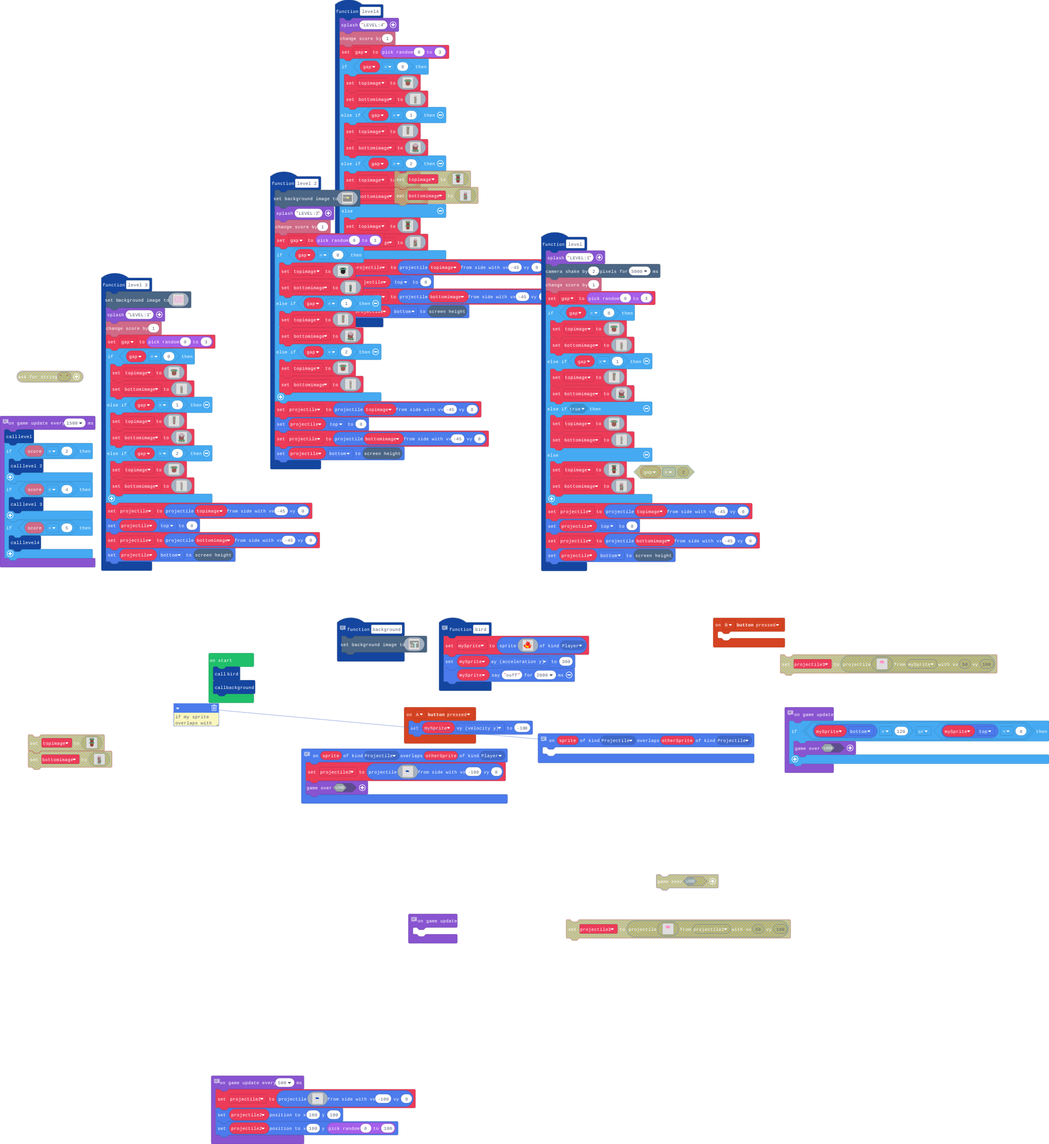
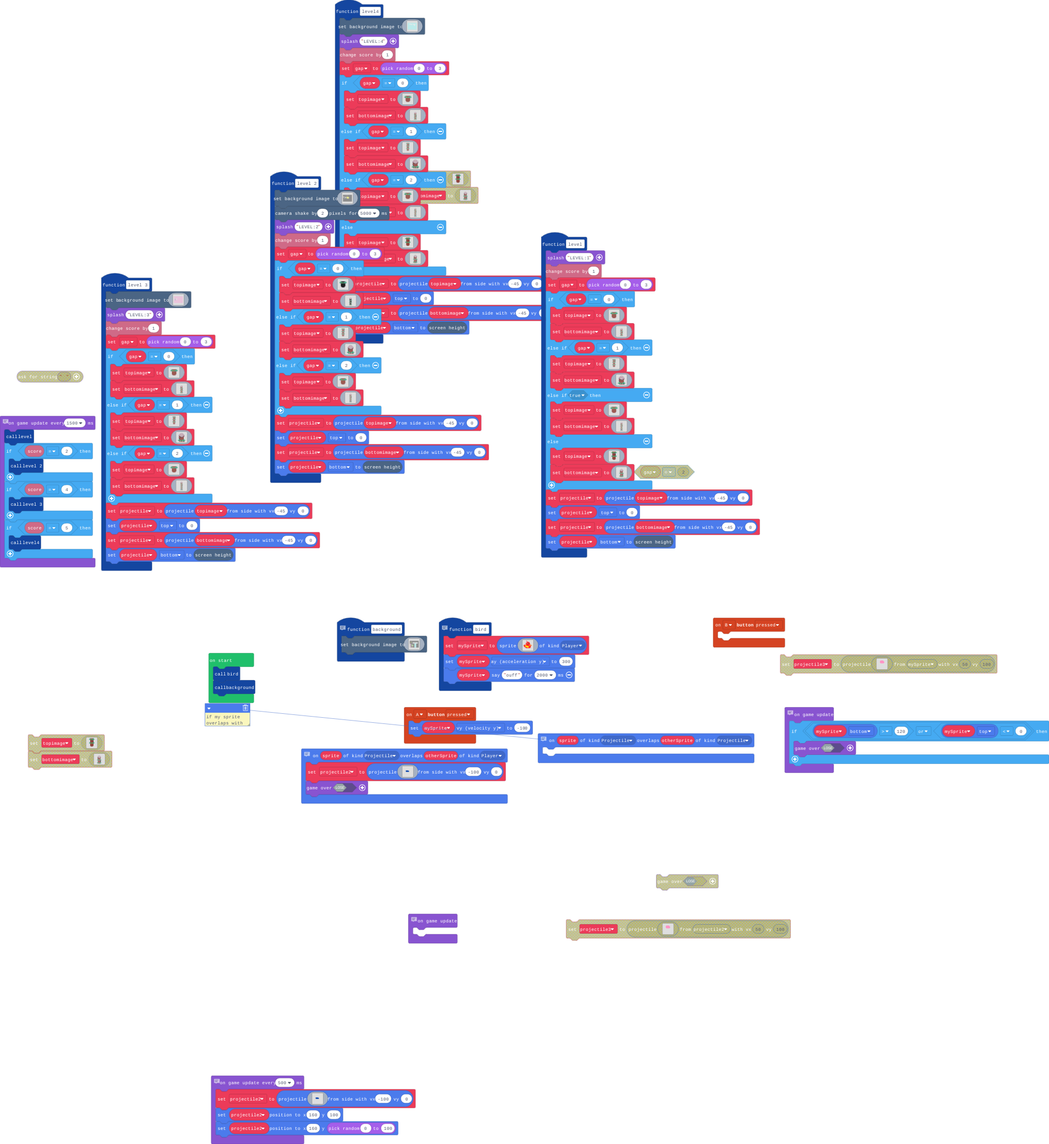
Update main.blocks, main.ts

Changed region(s): [[0.2493, 0.0, 0.7168, 0.4968], [0.1558, 0.5899, 0.2493, 0.652]]

diff --git a/main.ts b/main.ts
@@ -20,6 +20,128 @@ namespace myTiles {
 `
 }
 function level4 () {
+    scene.setBackgroundImage(img`
+9 9 9 9 9 9 9 9 9 9 9 9 9 9 9 9 9 9 9 9 9 9 9 9 9 9 9 9 9 9 9 9 9 9 9 9 9 9 9 9 9 9 9 9 9 9 9 9 9 9 9 9 9 9 9 9 9 9 9 9 9 9 9 9 9 9 9 9 9 9 9 9 9 9 9 9 9 9 9 9 9 9 9 9 9 9 9 9 9 9 9 9 9 9 9 9 9 9 9 9 9 9 9 9 9 9 9 9 9 9 9 9 9 9 9 9 9 9 9 9 9 9 9 9 9 9 9 9 9 9 9 9 9 9 9 9 9 9 9 9 9 9 9 9 9 9 9 9 9 9 9 9 9 9 9 9 9 9 9 9 
+9 9 9 9 9 9 9 9 9 9 9 9 9 9 9 9 9 9 9 9 9 9 9 9 9 9 9 9 9 9 9 9 9 9 9 9 9 9 9 9 9 9 9 9 9 9 9 9 9 9 9 9 9 9 9 9 9 9 9 9 9 9 9 9 9 9 9 9 9 9 9 9 9 9 9 9 9 9 9 9 9 9 9 9 9 9 9 9 9 9 9 9 9 9 9 9 9 9 9 9 9 9 9 9 9 9 9 9 9 9 9 9 9 9 9 9 9 9 9 9 9 9 9 9 9 9 9 9 9 9 9 9 9 9 9 9 9 9 9 9 9 9 9 9 9 9 9 9 9 9 9 9 9 9 9 9 9 9 9 9 
+9 9 9 9 9 9 9 9 9 9 9 9 9 9 9 9 9 9 9 9 9 9 9 9 9 9 9 9 9 9 9 9 9 9 9 9 9 9 9 9 9 9 9 9 9 9 9 9 9 9 9 9 9 9 9 9 9 9 9 9 9 9 9 9 9 9 9 9 9 9 9 9 9 9 9 9 9 9 9 9 9 9 9 9 9 9 9 9 9 9 9 9 9 9 9 9 9 9 9 9 9 9 9 9 9 9 9 9 9 9 9 9 9 9 9 9 9 9 9 9 9 9 9 9 9 9 9 9 9 9 9 9 9 9 9 9 9 9 9 9 9 9 9 9 9 9 9 9 9 9 9 9 9 9 9 9 9 9 9 9 
+9 9 9 9 9 9 9 9 9 9 9 9 9 9 9 9 9 9 9 9 9 9 9 9 9 9 9 9 9 9 9 9 9 9 9 9 9 9 9 9 9 9 9 9 9 9 9 9 9 9 9 9 9 9 9 9 9 9 9 9 9 9 9 9 9 9 9 9 9 9 9 9 9 9 9 9 9 9 9 9 9 9 9 9 9 9 9 9 9 9 9 9 9 9 9 9 9 9 9 9 9 9 9 9 9 9 9 9 9 9 9 9 9 9 9 9 9 9 9 9 9 9 9 9 9 9 9 9 9 9 9 9 9 9 9 9 9 9 9 9 9 9 9 9 9 9 9 9 9 9 9 9 9 9 9 9 9 9 9 9 
+9 9 9 9 9 9 9 9 9 9 9 9 9 9 9 9 9 9 9 9 9 9 9 9 9 9 9 9 9 9 9 9 9 9 9 9 9 9 9 9 9 9 9 9 9 9 9 9 9 9 9 9 9 9 9 9 9 9 9 9 9 9 9 9 9 9 9 9 9 9 9 9 9 9 9 9 9 9 9 9 9 9 9 9 9 9 9 9 9 9 9 9 9 9 9 9 9 9 9 9 9 9 9 9 9 9 9 9 9 9 9 9 9 9 9 9 9 9 9 9 9 9 9 9 9 9 9 9 9 9 9 9 9 9 9 9 9 9 9 9 9 9 9 9 9 9 9 9 9 9 9 9 9 9 9 9 9 9 9 9 
+9 9 9 9 9 9 9 9 9 9 9 9 9 9 9 9 9 9 9 9 9 9 9 9 9 9 9 9 9 9 9 9 9 9 9 9 9 9 9 9 9 9 9 9 9 9 9 9 9 9 9 9 9 9 9 9 9 9 9 9 9 9 9 9 9 9 9 9 9 9 9 9 9 9 9 9 9 9 9 9 9 9 9 9 9 9 9 9 9 9 9 9 9 9 9 9 9 9 9 9 9 9 9 9 9 9 9 9 9 9 9 9 9 9 9 9 9 9 9 9 9 9 9 9 9 9 9 9 9 9 9 9 9 9 9 9 9 9 9 9 9 9 9 9 9 9 9 9 9 9 9 9 9 9 9 9 9 9 9 9 
+9 9 9 9 9 9 9 9 9 9 9 9 9 9 9 9 9 9 9 9 9 9 9 9 9 9 9 9 9 9 9 9 9 9 9 9 9 9 9 9 9 9 9 9 9 9 9 9 9 9 9 9 9 9 9 9 9 9 9 9 9 9 9 9 9 9 9 9 9 9 9 9 9 9 9 9 9 9 9 9 9 9 9 9 9 9 9 9 9 9 9 9 9 9 9 9 9 9 9 9 9 9 9 9 9 9 9 9 9 9 9 9 9 9 9 9 9 9 9 9 9 9 9 9 9 9 9 9 9 9 9 9 9 9 9 9 9 9 9 9 9 9 9 9 9 9 9 9 9 9 9 9 9 9 9 9 9 9 9 9 
+9 9 9 9 9 9 9 9 9 9 9 9 9 9 9 9 9 9 9 9 9 9 9 9 9 9 9 9 9 9 9 9 9 9 9 9 9 9 9 9 9 9 9 9 9 9 9 9 9 9 9 9 9 9 9 9 9 9 9 9 9 9 9 9 9 9 9 9 9 9 9 9 9 9 9 9 9 9 9 9 9 9 9 9 9 9 9 9 9 9 9 9 9 9 9 9 9 9 9 9 9 9 9 9 9 9 9 9 9 9 9 9 9 9 9 9 9 9 9 9 9 9 9 9 9 9 9 9 9 9 9 9 9 9 9 9 9 9 9 9 9 9 9 9 9 9 9 9 9 9 9 9 9 9 9 9 9 9 9 9 
+9 9 9 9 9 9 9 9 9 9 9 9 9 9 9 9 9 9 9 9 9 9 9 9 9 9 9 9 9 9 9 9 9 9 9 9 9 9 9 9 9 9 9 9 9 9 9 9 9 9 9 9 9 9 9 9 9 9 9 9 9 9 9 9 9 9 9 9 9 9 9 9 9 9 9 9 9 9 9 9 9 9 9 9 9 9 9 9 9 9 9 9 9 9 9 9 9 9 9 9 9 9 9 9 9 9 9 9 9 9 9 9 9 9 9 9 9 9 9 9 9 9 9 9 9 9 9 9 9 9 9 9 9 9 9 9 9 9 9 9 9 9 9 9 9 9 9 9 9 9 9 9 9 9 9 9 9 9 9 9 
+9 9 9 9 9 9 9 9 9 9 9 9 9 9 9 9 9 9 9 9 9 9 9 9 9 9 9 9 9 9 9 9 9 9 9 9 9 9 9 9 9 9 9 9 9 9 9 9 9 9 9 9 9 9 9 9 9 9 9 9 9 9 9 9 9 9 9 9 9 9 9 9 9 9 9 9 9 9 9 9 9 9 9 9 9 9 9 9 9 9 9 9 9 9 9 9 9 9 9 9 9 9 9 9 9 9 9 9 9 9 9 9 9 9 9 9 9 9 9 9 9 9 9 9 9 9 9 9 9 9 9 9 9 9 9 9 9 9 9 9 9 9 9 9 9 9 9 9 9 9 9 9 9 9 9 9 9 9 9 9 
+9 9 9 9 9 9 9 9 9 9 9 9 9 9 9 9 9 9 9 9 9 9 9 9 9 9 9 9 9 9 9 9 9 9 9 9 9 9 9 9 9 9 9 9 9 9 9 9 9 9 9 9 9 9 9 9 9 9 9 9 9 9 9 9 9 9 9 9 9 9 9 9 9 9 9 9 9 9 9 9 9 9 9 9 9 9 9 9 9 9 9 9 9 9 9 9 9 9 9 9 9 9 9 9 9 9 9 9 9 9 9 9 9 9 9 9 9 9 9 9 9 9 9 9 9 9 9 9 9 9 9 9 9 9 9 9 9 9 9 9 9 9 9 9 9 9 9 9 9 9 9 9 9 9 9 9 9 9 9 9 
+9 9 9 9 9 9 9 9 9 9 9 9 9 9 9 9 9 9 9 9 9 9 9 9 9 9 9 9 9 9 9 9 9 9 9 9 9 9 9 9 9 9 9 9 9 9 9 9 9 9 9 9 9 9 9 9 9 9 9 9 9 9 9 9 9 9 9 9 9 9 9 9 9 9 9 9 9 9 9 9 9 9 9 9 9 9 9 9 9 9 9 9 9 9 9 9 9 9 9 9 9 9 9 9 9 9 9 9 9 9 9 9 9 9 9 9 9 9 9 9 9 9 9 9 9 9 9 9 9 9 9 9 9 9 9 9 9 9 9 9 9 9 9 9 9 9 9 9 9 9 9 9 9 9 9 9 9 9 9 9 
+9 9 9 9 9 9 9 9 9 9 9 9 9 9 9 9 9 9 9 9 9 9 9 9 9 9 9 9 9 9 9 9 9 9 9 9 9 9 9 9 9 9 9 9 9 9 9 9 9 9 9 9 9 9 9 9 9 9 9 9 9 9 9 9 9 9 9 9 9 9 9 9 9 9 9 9 9 9 9 9 9 9 9 9 9 9 9 9 9 9 9 9 9 9 9 9 9 9 9 9 9 9 9 9 9 9 9 9 9 9 9 9 9 9 9 9 9 9 9 9 9 9 9 9 9 9 9 9 9 9 9 9 9 9 9 9 9 9 9 9 9 9 9 9 9 9 9 9 9 9 9 9 9 9 9 9 9 9 9 9 
+9 9 9 9 9 9 9 9 9 9 9 9 9 9 9 9 9 9 9 9 9 9 9 9 9 9 9 9 9 9 9 9 9 9 9 9 9 9 9 9 9 9 9 9 9 9 9 9 9 9 9 9 9 9 9 9 9 9 9 9 9 9 9 9 9 9 9 9 9 9 9 9 9 9 9 9 9 9 9 9 9 9 9 9 9 9 9 9 9 9 9 9 9 9 9 9 9 9 9 9 9 9 9 9 9 9 9 9 9 9 9 9 9 9 9 9 9 9 9 9 9 9 9 9 9 9 9 9 9 9 9 9 9 9 9 9 9 9 9 9 9 9 9 9 9 9 9 9 9 9 9 9 9 9 9 9 9 9 9 9 
+9 9 9 9 9 9 9 9 9 9 9 9 9 9 9 9 9 9 9 9 9 9 9 9 9 9 9 9 9 9 9 9 9 9 9 9 9 9 9 9 9 9 9 9 9 9 9 9 9 9 9 9 9 9 9 9 9 9 9 9 9 9 9 9 9 9 9 9 9 9 9 9 9 9 9 9 9 9 9 9 9 9 9 9 9 9 9 9 9 9 9 9 9 9 9 9 9 9 9 9 9 9 9 9 9 9 9 9 9 9 9 9 9 9 9 9 9 9 9 9 9 9 9 9 9 9 9 9 9 9 9 9 9 9 9 9 9 9 9 9 9 9 9 9 9 9 9 9 9 9 9 9 9 9 9 9 9 9 9 9 
+9 9 9 9 9 9 9 9 9 9 9 9 9 9 9 9 9 9 9 9 9 9 9 9 9 9 9 9 9 9 9 9 9 9 9 9 9 9 9 9 9 9 9 9 9 9 9 9 9 9 9 9 9 9 9 9 9 9 9 9 9 9 9 9 9 9 9 9 9 9 9 9 9 9 9 9 9 9 9 9 9 9 9 9 9 9 9 9 9 9 9 9 9 9 9 9 9 9 9 9 9 9 9 9 9 9 9 9 9 9 9 9 9 9 9 9 9 9 9 9 9 9 9 9 9 9 9 9 9 9 9 9 9 9 9 9 9 9 9 9 9 9 9 9 9 9 9 9 9 9 9 9 9 9 9 9 9 9 9 9 
+9 9 9 9 9 9 9 9 9 9 9 9 9 9 9 9 9 9 9 9 9 9 9 9 9 9 9 9 9 9 9 9 9 9 9 9 9 9 9 9 9 9 9 9 9 9 9 9 9 9 9 9 9 9 9 9 9 9 9 9 9 9 9 9 9 9 9 9 9 9 9 9 9 9 9 9 9 9 9 9 9 9 9 9 9 9 9 9 9 9 9 9 9 9 9 9 9 9 9 9 9 9 9 9 9 9 9 9 9 9 9 9 9 9 9 9 9 9 9 9 9 9 9 9 9 9 9 9 9 9 9 9 9 9 9 9 9 9 9 9 9 9 9 9 9 9 9 9 9 9 9 9 9 9 9 9 9 9 9 9 
+9 9 9 9 9 9 9 9 9 9 9 9 9 9 9 9 9 9 9 9 9 9 9 9 9 9 9 9 9 9 9 9 9 9 9 9 9 9 9 9 1 1 1 1 1 9 9 9 9 9 9 9 9 9 9 9 9 9 9 9 9 9 9 9 9 9 9 9 9 9 9 9 9 9 9 9 9 9 9 9 9 9 9 9 9 9 9 9 9 9 9 9 9 9 9 9 9 9 9 9 9 9 9 9 9 9 9 9 9 9 9 9 9 9 9 9 9 9 9 9 9 9 9 9 9 9 9 9 9 9 9 9 9 9 9 9 9 9 9 9 9 9 9 9 9 9 9 9 9 9 9 9 9 9 9 9 9 9 9 9 
+9 9 9 9 9 9 9 9 9 9 9 9 9 9 9 9 9 9 9 9 9 9 9 9 9 9 9 9 9 9 9 9 9 1 1 1 1 1 1 1 1 1 1 1 1 1 1 9 9 9 9 9 9 9 9 9 9 9 9 9 9 9 9 9 9 9 9 9 9 9 9 9 9 9 9 9 9 9 9 9 9 9 9 9 9 9 9 9 9 9 9 9 9 9 9 9 9 9 9 9 9 9 9 9 9 9 9 9 9 9 9 9 9 9 9 9 9 9 9 9 9 9 9 9 9 9 9 9 9 9 9 9 9 9 9 9 9 9 9 9 9 9 9 9 9 9 9 9 9 9 9 9 9 9 9 9 9 9 9 9 
+9 9 9 9 9 9 9 9 9 9 9 9 9 9 9 9 9 9 9 9 9 9 9 9 9 9 9 9 1 1 1 1 1 1 1 1 1 1 1 1 1 1 1 1 1 1 1 9 9 9 9 9 9 9 9 9 9 9 9 9 9 9 9 9 9 9 9 9 9 9 9 9 9 9 9 9 9 9 9 9 9 9 9 9 9 9 9 9 9 9 9 9 9 9 9 9 9 9 9 9 9 9 9 9 9 9 9 9 9 9 9 9 9 9 9 9 9 9 9 9 9 9 9 9 9 9 9 9 9 9 9 9 9 9 9 9 9 9 9 9 9 9 9 9 9 9 9 9 9 9 9 9 9 9 9 9 9 9 9 9 
+9 9 9 9 9 9 9 9 9 9 9 9 9 9 9 9 9 9 9 9 9 9 9 9 9 9 1 1 1 1 1 1 1 1 1 1 1 1 1 1 1 1 1 1 1 1 1 9 9 9 9 9 9 9 9 9 9 9 9 9 9 9 9 9 9 9 9 9 9 9 9 9 9 9 9 9 9 9 9 9 9 9 9 9 9 9 9 9 9 9 9 9 9 9 9 9 9 9 9 9 9 9 9 9 9 9 9 9 9 9 9 9 9 9 9 9 9 9 9 9 9 9 9 9 9 9 9 9 9 9 9 9 9 9 9 9 9 9 9 9 9 9 9 9 9 9 9 9 9 9 9 9 9 9 9 9 9 9 9 9 
+9 9 9 9 9 9 9 9 9 9 9 9 9 9 9 9 9 9 9 9 9 9 9 9 9 1 1 1 1 1 1 1 1 1 1 1 1 1 1 1 1 1 1 1 1 1 1 1 1 1 1 1 1 1 1 1 9 9 9 9 9 9 9 9 9 9 9 9 9 9 9 9 1 1 1 1 9 9 9 9 9 9 9 9 9 9 9 9 9 9 9 9 9 9 9 9 9 9 9 9 9 9 9 9 9 9 9 9 9 9 9 9 9 9 9 9 9 9 9 9 9 9 9 9 9 9 9 9 9 9 9 9 9 9 9 9 9 9 9 9 9 9 9 9 9 9 9 9 9 9 9 9 9 9 9 9 9 9 9 9 
+9 9 9 9 9 9 9 9 9 9 9 9 9 9 9 9 9 9 9 9 9 9 9 9 9 1 1 1 1 1 1 1 1 1 1 1 1 1 1 1 1 1 1 1 1 1 1 1 1 1 1 1 1 1 1 1 1 1 9 9 9 9 1 1 1 1 9 9 9 9 9 9 9 9 9 9 1 1 1 1 1 9 9 9 9 9 1 1 1 1 1 1 1 1 1 1 1 1 1 9 9 9 9 9 9 9 9 9 9 9 9 9 9 9 9 9 9 9 9 9 9 9 9 9 9 9 9 9 9 9 9 9 9 9 9 9 9 9 9 9 9 9 9 9 9 9 9 9 9 9 9 9 9 9 9 9 9 9 9 9 
+9 9 9 9 9 9 9 9 9 9 9 9 9 9 9 9 9 9 9 9 9 9 9 9 1 1 1 1 1 1 1 1 1 1 1 1 1 1 1 1 1 1 1 1 1 1 1 1 1 1 1 1 1 1 1 1 1 1 9 9 1 1 1 1 1 1 1 1 9 9 9 9 9 9 9 9 9 9 9 9 1 1 1 1 1 1 1 1 1 1 1 1 1 1 1 1 1 1 1 1 1 1 1 1 1 1 1 1 1 1 1 1 1 1 1 1 1 1 1 1 1 9 9 9 9 9 9 9 9 9 9 9 9 9 9 9 9 9 9 9 9 9 9 9 9 9 9 9 9 9 9 9 9 9 9 9 9 9 9 9 
+9 9 9 9 9 9 9 9 9 9 9 9 9 9 9 9 9 9 9 9 9 9 9 9 9 9 1 1 1 1 1 1 1 1 1 1 1 1 1 1 1 1 1 1 1 1 1 1 1 1 1 1 1 1 1 1 1 1 1 1 1 1 1 1 1 1 1 1 1 1 9 9 9 9 9 9 9 9 9 9 9 9 9 9 9 1 1 1 1 1 1 1 1 1 1 1 1 1 1 1 1 1 1 1 1 1 1 1 1 1 1 1 1 1 1 1 1 1 1 1 1 1 1 1 1 1 1 1 1 1 1 1 1 1 1 1 9 9 9 9 9 9 9 9 9 9 9 9 9 9 9 9 9 9 9 9 9 9 9 9 
+9 9 9 9 9 9 9 9 9 9 9 9 9 9 9 9 9 9 9 9 9 9 9 9 9 9 9 9 9 1 1 1 1 1 1 1 1 1 1 1 1 1 1 1 1 1 1 1 1 1 1 1 1 1 1 1 1 1 1 1 1 1 1 1 1 1 1 1 1 1 1 1 9 9 9 1 1 1 1 9 9 9 9 9 9 9 9 9 9 1 1 1 1 1 1 1 1 1 1 1 1 1 1 1 1 1 1 1 1 1 1 1 1 1 1 1 1 1 1 1 1 1 1 1 1 1 1 1 1 1 1 1 1 1 1 1 1 1 1 9 9 9 9 9 9 9 9 9 9 9 9 9 9 9 9 9 9 9 9 9 
+9 9 9 9 9 9 9 9 9 9 9 9 9 9 9 9 9 9 9 9 9 9 9 9 9 9 9 9 9 9 9 9 1 1 1 1 1 1 1 1 1 1 1 1 1 1 1 1 1 1 1 1 1 1 1 1 1 1 1 1 1 1 1 1 1 1 1 1 1 1 1 1 1 1 1 1 1 1 1 9 9 9 9 9 9 9 9 9 9 9 1 1 1 1 1 1 1 1 1 1 1 1 1 1 1 1 1 1 1 1 1 1 1 1 1 1 1 1 1 1 1 1 1 1 1 1 1 1 1 1 1 1 1 1 1 1 1 1 1 1 9 9 9 9 9 9 9 9 9 9 9 9 9 9 9 9 9 9 9 9 
+9 9 9 9 9 9 9 9 9 9 9 9 9 9 9 9 9 9 9 9 9 9 9 9 9 9 9 9 9 9 9 9 9 9 9 1 1 1 1 1 1 1 1 1 1 1 1 1 1 1 1 1 1 1 1 1 1 1 1 1 1 1 1 1 1 1 1 1 1 1 1 1 1 1 1 1 1 1 1 1 9 9 9 9 9 9 9 9 9 9 9 1 1 1 1 1 1 1 1 1 1 1 1 1 1 1 1 1 1 1 1 1 1 1 1 1 1 1 1 1 1 1 1 1 1 1 1 1 1 1 1 1 1 1 1 1 1 1 1 1 9 9 9 9 9 9 9 9 9 9 9 9 9 9 9 9 9 9 9 9 
+9 9 9 9 9 9 9 9 9 9 9 9 9 9 9 9 9 9 9 9 9 9 9 9 9 9 9 9 9 9 9 9 9 9 9 9 9 9 9 1 1 1 1 1 1 1 1 1 1 1 1 1 1 1 1 1 1 1 1 1 1 1 1 1 1 1 1 1 1 1 1 1 1 1 1 1 1 1 1 1 1 9 1 1 9 9 9 9 9 9 9 9 9 1 1 1 1 1 1 1 1 1 1 1 1 1 1 1 1 1 1 1 1 1 1 1 1 1 1 1 1 1 1 1 1 1 1 1 1 1 1 1 1 1 1 1 1 1 1 1 9 9 9 9 9 9 9 9 9 9 9 9 9 9 9 9 9 9 9 9 
+9 9 9 9 9 9 9 9 9 9 9 9 9 9 9 9 9 9 9 9 9 9 9 9 9 9 9 9 9 9 9 9 9 9 9 9 9 9 9 9 9 9 1 1 1 9 1 1 1 1 1 1 1 1 1 1 1 1 1 1 1 1 1 1 1 1 1 1 1 1 1 1 1 1 1 1 1 1 1 1 1 1 9 9 9 9 9 9 9 9 9 9 9 9 1 1 1 1 1 1 1 1 1 1 1 1 1 1 1 1 1 1 1 1 1 1 1 1 1 1 1 1 1 1 1 1 1 1 1 1 1 1 1 1 1 1 1 1 1 1 9 9 9 9 9 9 9 9 9 9 9 9 9 9 9 9 9 9 9 9 
+9 9 9 9 9 9 9 9 9 9 9 9 9 9 9 9 9 9 9 9 9 9 9 9 9 9 9 9 9 9 9 9 9 9 9 9 9 9 9 1 9 9 9 9 9 1 1 9 9 9 1 1 1 1 1 1 1 1 1 1 1 1 1 1 1 1 1 1 1 1 1 1 1 1 1 1 1 1 1 1 1 1 9 9 9 9 9 9 9 9 9 9 9 9 9 1 1 1 1 1 1 1 1 1 1 1 1 1 1 1 1 1 1 1 1 1 1 1 1 1 1 1 1 1 1 1 1 1 1 1 1 1 1 1 1 1 1 1 1 1 9 9 9 9 9 9 9 9 9 9 9 9 9 9 9 9 9 9 9 9 
+9 9 9 9 9 9 9 9 9 9 9 9 9 9 9 9 9 9 9 9 9 9 9 9 9 9 9 9 9 9 9 9 9 9 9 9 9 9 9 9 9 9 9 9 9 9 9 9 9 9 9 9 9 1 1 1 1 1 1 1 1 1 1 1 1 1 1 1 1 1 1 1 1 1 1 1 1 1 1 1 1 9 9 9 9 9 9 9 9 9 9 9 9 9 9 9 9 1 1 1 1 1 1 1 1 1 1 1 1 1 1 1 1 1 1 1 1 1 1 1 1 1 1 1 1 1 1 1 1 1 1 1 1 1 1 1 1 1 1 1 9 9 9 9 9 9 9 9 9 9 9 9 9 9 9 9 9 9 9 9 
+9 9 9 9 9 9 9 9 9 9 9 9 9 9 9 9 9 1 9 9 9 9 9 9 9 9 9 9 9 9 9 9 9 9 9 9 9 9 9 9 9 9 9 9 9 9 9 9 9 9 9 9 9 9 9 9 9 1 1 1 1 1 1 1 1 1 1 1 1 1 1 1 1 1 1 1 1 1 1 1 9 9 9 9 9 9 9 9 9 9 9 9 9 9 9 9 9 9 1 1 1 1 1 1 1 1 1 1 1 1 1 1 1 1 1 1 1 1 1 1 1 1 1 1 1 1 1 1 1 1 1 1 1 1 1 1 1 1 1 1 9 9 9 9 9 9 9 9 9 9 9 9 9 9 9 9 9 9 9 9 
+9 9 9 9 9 9 9 9 9 9 9 9 9 9 9 9 9 1 9 1 1 1 1 9 9 9 9 9 9 9 9 9 9 9 9 9 9 9 9 9 9 9 9 9 9 9 9 9 9 9 9 9 9 9 9 9 9 9 9 9 9 1 1 1 1 1 1 1 1 1 1 1 1 1 1 1 1 1 1 1 9 9 9 9 9 9 9 9 9 9 9 9 9 9 9 9 9 9 9 9 1 1 1 1 1 1 1 1 1 1 1 1 1 1 1 1 1 1 1 1 1 1 1 1 1 1 9 9 9 9 9 1 1 1 1 1 1 1 1 1 9 9 9 9 9 9 9 9 9 9 9 9 9 9 9 9 9 9 9 9 
+9 9 9 9 9 9 9 9 9 9 9 9 9 9 9 9 9 9 1 1 1 1 1 1 9 9 9 9 9 9 9 9 9 9 9 9 9 9 9 9 9 9 9 9 9 9 9 9 9 9 9 9 9 9 9 9 9 9 9 9 9 9 9 9 9 1 1 1 1 1 1 1 1 1 1 1 1 1 1 9 9 9 9 9 9 9 9 9 9 9 9 9 9 9 9 9 9 9 9 9 9 1 1 1 1 1 1 1 1 1 1 1 1 1 1 1 1 1 1 1 1 1 1 1 1 1 9 9 9 9 9 9 9 9 1 1 1 1 1 1 9 9 9 9 9 9 9 9 9 9 9 9 9 9 9 9 9 9 9 9 
+9 9 9 9 9 9 9 9 9 9 9 9 9 9 9 9 9 9 1 9 1 1 1 1 1 1 9 9 9 9 9 9 9 9 9 9 9 9 9 9 9 9 9 9 9 9 9 9 9 9 9 9 9 9 9 9 9 9 9 9 9 9 9 9 9 9 9 9 9 1 1 1 1 1 1 1 1 1 1 9 9 9 9 9 9 9 9 9 9 9 9 9 9 9 9 9 9 9 9 9 9 9 1 1 1 1 1 1 1 1 1 1 1 1 1 1 1 1 1 1 1 1 1 1 1 1 9 9 9 9 9 9 9 9 9 9 1 1 1 1 9 9 9 9 9 9 9 9 9 9 9 9 9 9 9 9 9 9 9 9 
+9 9 9 9 9 9 9 9 9 9 9 9 9 9 9 9 9 9 9 1 1 1 1 1 1 1 9 9 9 9 9 9 9 9 9 9 9 9 9 9 9 9 9 9 9 9 9 9 9 9 9 9 9 9 9 9 9 9 9 9 9 9 9 9 9 9 9 9 9 9 9 9 9 1 1 1 1 1 1 9 9 9 9 9 9 9 9 9 9 9 9 9 9 9 9 9 9 9 9 9 9 9 9 9 1 1 1 1 1 1 1 1 1 1 1 1 1 1 1 1 1 1 1 1 1 1 1 9 9 9 9 9 9 9 9 9 9 9 1 1 9 9 9 9 9 9 9 9 9 9 9 9 9 9 9 9 9 9 9 9 
+9 9 9 9 9 9 9 9 9 9 9 9 9 9 9 9 9 9 9 9 1 1 1 1 9 9 9 9 9 9 9 9 9 9 9 9 9 9 9 9 9 9 9 9 9 9 9 9 9 9 9 9 9 9 9 9 9 9 9 9 9 9 9 9 9 9 9 9 9 9 9 9 9 9 9 9 9 1 1 1 9 9 9 9 9 9 9 9 9 9 9 9 9 9 9 9 9 9 9 9 9 9 9 9 9 1 1 1 1 1 1 1 1 1 1 1 1 1 1 1 1 1 1 1 1 1 1 9 9 9 9 9 9 9 9 9 9 9 9 9 9 9 9 9 9 9 9 9 9 9 9 9 9 9 9 9 9 9 9 9 
+9 9 9 9 9 9 9 9 9 9 9 9 9 9 9 9 9 9 9 9 1 1 9 9 9 9 9 9 9 9 9 9 9 9 9 9 9 9 9 9 9 9 9 9 9 9 9 9 9 9 9 9 9 9 9 9 9 9 9 9 9 9 9 9 9 9 9 9 9 9 9 9 9 9 9 9 9 9 9 9 9 9 9 9 9 9 9 9 9 9 9 9 9 9 9 9 9 9 9 9 9 9 9 9 9 9 1 1 1 1 1 1 1 1 1 1 1 1 1 1 1 1 1 1 1 1 1 9 9 9 9 9 9 9 9 9 9 9 9 9 9 9 9 9 9 9 9 9 9 9 9 9 9 9 9 9 9 9 9 9 
+9 9 9 9 9 9 9 9 9 9 9 9 9 9 9 9 9 9 9 9 9 9 9 9 9 9 9 9 9 9 9 9 9 9 9 9 9 9 9 9 9 9 9 9 9 9 9 9 9 9 9 9 9 9 9 9 9 9 9 9 9 9 9 9 9 9 9 9 9 9 9 9 9 9 9 9 9 9 9 9 9 9 9 9 9 9 9 9 9 9 9 9 9 9 9 9 9 9 9 9 9 9 9 9 9 9 9 9 1 1 1 1 1 1 1 1 1 1 1 1 1 1 1 1 1 1 1 9 9 9 9 9 9 9 9 9 9 9 9 9 9 9 9 9 9 9 9 9 9 9 9 9 9 9 9 9 9 9 9 9 
+9 9 9 9 9 9 9 9 9 9 9 9 9 9 9 9 9 9 9 9 9 9 9 9 9 9 9 9 9 9 9 9 9 9 9 9 9 9 9 9 9 9 9 9 9 9 9 9 9 9 9 9 9 9 9 9 9 9 9 9 9 9 9 9 9 9 9 9 9 9 9 9 9 9 9 9 9 9 9 9 9 9 9 9 9 9 9 9 9 9 9 9 9 9 9 9 9 9 9 9 9 9 9 9 9 9 9 9 9 1 1 1 1 1 1 1 1 1 1 1 1 1 1 1 1 1 1 9 9 9 9 9 9 9 9 9 9 9 9 9 9 9 9 9 9 9 9 9 9 9 9 9 9 9 9 9 9 9 9 9 
+9 9 9 9 9 9 9 9 9 9 9 9 9 9 9 9 9 9 9 9 9 9 9 9 9 9 9 9 9 9 9 9 9 9 9 9 9 9 9 9 9 9 9 9 9 9 9 9 9 9 9 9 9 9 9 9 9 9 9 9 9 9 9 9 9 9 9 9 9 9 9 9 9 9 9 9 9 9 9 9 9 9 9 9 9 9 9 9 9 9 9 9 9 9 9 9 9 9 9 9 9 9 9 9 9 9 9 9 9 9 1 1 1 1 1 1 1 1 1 1 1 1 1 1 1 1 1 9 9 9 9 9 9 9 9 9 9 9 9 9 9 9 9 9 9 9 9 9 9 9 9 9 9 9 9 9 9 9 9 9 
+9 9 9 9 9 9 9 9 9 9 9 9 9 9 9 9 9 9 9 9 9 9 9 9 9 9 9 9 9 9 9 9 9 9 9 9 9 9 9 9 9 9 9 9 9 9 9 9 9 9 9 9 9 9 9 9 9 9 9 9 9 9 9 9 9 9 9 9 9 9 9 9 9 9 9 9 9 9 9 9 9 9 9 9 9 9 9 9 9 9 9 9 9 9 9 9 9 9 9 9 9 9 9 9 9 9 9 9 9 9 9 9 1 1 1 1 1 1 1 1 1 1 1 1 1 1 1 9 9 9 9 9 9 9 9 9 9 9 9 9 9 9 9 9 9 9 9 9 9 9 9 9 9 9 9 9 9 9 9 9 
+9 9 9 9 9 9 9 9 9 9 9 9 9 9 9 9 9 9 9 9 9 9 9 9 9 9 9 9 9 9 9 9 9 9 9 9 9 9 9 9 9 9 9 9 9 9 9 9 9 9 9 9 9 9 9 9 9 9 9 9 9 9 9 9 9 9 9 9 9 9 9 9 9 9 9 9 9 9 9 9 9 9 9 9 9 9 9 9 9 9 9 9 9 9 9 9 9 9 9 9 9 9 9 9 9 9 9 9 9 9 9 9 9 1 1 1 1 1 1 1 1 1 1 1 1 1 1 1 9 9 9 9 9 9 9 9 9 9 9 9 9 9 9 9 9 9 9 9 9 9 9 9 9 9 9 9 9 9 9 9 
+9 9 9 9 9 9 9 9 9 9 9 9 9 9 9 9 9 9 9 9 9 9 9 9 9 9 9 9 9 9 9 9 9 9 9 9 9 9 9 9 9 9 9 9 9 9 9 9 9 9 9 9 9 9 9 9 9 9 9 9 9 9 9 9 9 9 9 9 9 9 9 9 9 9 9 9 9 9 9 9 9 9 9 9 9 9 9 9 9 9 9 9 9 9 9 9 9 9 9 9 9 9 9 9 9 9 9 9 9 9 9 9 9 9 1 1 1 1 1 1 1 1 1 1 1 1 1 1 9 9 9 9 9 9 9 9 9 9 9 9 9 9 9 9 9 9 9 9 9 9 9 9 9 9 9 9 9 9 9 9 
+9 9 9 9 9 9 9 9 9 9 9 9 9 9 9 9 9 9 9 9 9 9 9 9 9 9 9 9 9 9 9 9 9 9 9 9 9 9 9 9 9 9 9 9 9 9 9 9 9 9 9 9 9 9 9 9 9 9 9 9 9 9 9 9 9 9 9 9 9 9 9 9 9 9 9 9 9 9 9 9 9 9 9 9 9 9 9 9 9 9 9 9 9 9 9 9 9 9 9 9 9 9 9 9 9 9 9 9 9 9 9 9 9 9 9 1 1 1 1 1 1 1 1 1 1 1 1 1 9 9 9 9 9 9 9 9 9 9 9 9 9 9 9 9 9 9 9 9 9 9 9 9 9 9 9 9 9 9 9 9 
+9 9 9 9 9 9 9 9 9 9 9 9 9 9 9 9 9 9 9 9 9 9 9 9 9 9 9 9 9 9 9 9 9 9 9 9 9 9 9 9 9 9 9 9 9 9 9 9 9 9 9 9 9 9 9 9 9 9 9 9 9 9 9 9 9 9 9 9 9 9 9 9 9 9 9 9 9 9 9 9 9 9 9 9 9 9 9 9 9 9 9 9 9 9 9 9 9 9 9 9 9 9 9 9 9 9 9 9 9 9 9 9 9 9 9 9 1 1 1 1 1 1 1 1 1 1 1 1 9 9 9 9 9 9 9 9 9 9 9 9 9 9 9 9 9 9 9 9 9 9 9 9 9 9 9 9 9 9 9 9 
+9 9 9 9 9 9 9 9 9 9 9 9 9 9 9 9 9 9 9 9 9 9 9 9 9 9 9 9 9 9 9 9 9 9 9 9 9 9 9 9 9 9 9 9 9 9 9 9 9 9 9 9 9 9 9 9 9 9 9 9 9 9 9 9 9 9 9 9 9 9 9 9 9 9 9 9 9 9 9 9 9 9 9 9 9 9 9 9 9 9 9 9 9 9 9 9 9 9 9 9 9 9 9 9 9 9 9 9 9 9 9 9 9 9 9 9 9 1 1 1 1 1 1 1 1 1 1 1 9 9 9 9 9 9 9 9 9 9 9 9 9 9 9 9 9 9 9 9 9 9 9 9 9 9 9 9 9 9 9 9 
+9 9 9 9 9 9 9 9 9 9 9 9 9 9 9 9 9 9 9 9 9 9 9 9 9 9 9 9 9 9 9 9 9 9 9 9 9 9 9 9 9 9 9 9 9 9 9 9 9 9 9 9 9 9 9 9 9 9 9 9 9 9 9 9 9 9 9 9 9 9 9 9 9 9 9 9 9 9 9 9 9 9 9 9 9 9 9 9 9 9 9 9 9 9 9 9 9 9 9 9 9 9 9 9 9 9 9 9 9 9 9 9 9 9 9 9 9 9 1 1 1 1 1 1 1 1 1 1 9 9 9 9 9 9 9 9 9 9 9 9 9 9 9 9 9 9 9 9 9 9 9 9 9 9 9 9 9 9 9 9 
+9 9 9 9 9 9 9 9 9 9 9 9 9 9 9 9 9 9 9 9 9 9 9 9 9 9 9 9 9 9 9 9 9 9 9 9 9 9 9 9 9 9 9 9 9 9 9 9 9 9 9 9 9 9 9 9 9 9 9 9 9 9 9 9 9 9 9 9 9 9 9 9 9 9 9 9 9 9 9 9 9 9 9 9 9 9 9 9 9 9 9 9 9 9 9 9 9 9 9 9 9 9 9 9 9 9 9 9 9 9 9 9 9 9 9 9 9 9 9 1 1 1 1 1 1 1 1 1 9 9 9 9 9 9 9 9 9 9 9 9 9 9 9 9 9 9 9 9 9 9 9 9 9 9 9 9 9 9 9 9 
+9 9 9 9 9 9 9 9 9 9 9 9 9 9 9 9 9 9 9 9 9 9 9 9 9 9 9 9 9 9 9 9 9 9 9 9 9 9 9 9 9 9 9 9 9 9 9 9 9 9 9 9 9 9 9 9 9 9 9 9 9 9 9 9 9 9 9 9 9 9 9 9 9 9 9 9 9 9 9 9 9 9 9 9 9 9 9 9 9 9 9 9 9 9 9 9 9 9 9 9 9 9 9 9 9 9 9 9 9 9 9 9 9 9 9 9 9 9 9 9 1 1 1 1 1 1 1 1 1 9 9 9 9 9 9 9 9 9 9 9 9 9 9 9 9 9 9 9 9 9 9 9 9 9 9 9 9 9 9 9 
+9 9 9 9 9 9 9 9 9 9 9 9 9 9 9 9 9 9 9 9 9 9 9 9 9 9 9 9 9 9 9 9 9 9 9 9 9 9 9 9 9 9 9 9 9 9 9 9 9 9 9 9 9 9 9 9 9 9 9 9 9 9 9 9 9 9 9 9 9 9 9 9 9 9 9 9 9 9 9 9 9 9 9 9 9 9 9 9 9 9 9 9 9 9 9 9 9 9 9 9 9 9 9 9 9 9 9 9 9 9 9 9 9 9 9 9 9 9 9 9 9 9 1 1 1 1 1 1 1 9 9 9 9 9 9 9 9 9 9 9 9 9 9 9 9 9 9 9 9 9 9 9 9 9 9 9 9 9 9 9 
+9 9 9 9 9 9 9 9 9 9 9 9 9 9 9 9 9 9 9 9 9 9 9 9 9 9 9 9 9 9 9 9 9 9 9 9 9 9 9 9 9 9 9 9 9 9 9 9 9 9 9 9 9 9 9 9 9 9 9 9 9 9 9 9 9 9 9 9 9 9 9 9 9 9 9 9 9 9 9 9 9 9 9 9 9 9 9 9 9 9 9 9 9 9 9 9 9 9 9 9 9 9 9 9 9 9 9 9 9 9 9 9 9 9 9 9 9 9 9 9 9 9 9 1 1 1 1 1 1 9 9 9 9 9 9 9 9 9 9 9 9 9 9 9 9 9 9 9 9 9 9 9 9 9 9 9 9 9 9 9 
+9 9 9 9 9 9 9 9 9 9 9 9 9 9 9 9 9 9 9 9 9 9 9 9 9 9 9 9 9 9 9 9 9 9 9 9 9 9 9 9 9 9 9 9 9 9 9 9 9 9 9 9 9 9 9 9 9 9 9 9 9 9 9 9 9 9 9 9 9 9 9 9 9 9 9 9 9 9 9 9 9 9 9 9 9 9 9 9 9 9 9 9 9 9 9 9 9 9 9 9 9 9 9 9 9 9 9 9 9 9 9 9 9 9 9 9 9 9 9 9 9 9 9 9 1 1 1 1 1 9 9 9 9 9 9 9 9 9 9 9 9 9 9 9 9 9 9 9 9 9 9 9 9 9 9 9 9 9 9 9 
+9 9 9 9 9 9 9 9 9 9 9 9 9 9 9 9 9 9 9 9 9 9 9 9 9 9 9 9 9 9 9 9 9 9 9 9 9 9 9 9 9 9 9 9 9 9 9 9 9 9 9 9 9 9 9 9 9 9 9 9 9 9 9 9 9 9 9 9 9 9 9 9 9 9 9 9 9 9 9 9 9 9 9 9 9 9 9 9 9 9 9 9 9 9 9 9 9 9 9 9 9 9 9 9 9 9 9 9 9 9 9 9 9 9 9 9 9 9 9 9 9 9 9 9 9 1 1 1 1 9 9 9 9 9 9 9 9 9 9 9 9 9 9 9 9 9 9 9 9 9 9 9 9 9 9 9 9 9 9 9 
+9 9 9 9 9 9 9 9 9 9 9 9 9 9 9 9 9 9 9 9 9 9 9 9 9 9 9 9 9 9 9 9 9 9 9 9 9 9 9 9 9 9 9 9 9 9 9 9 9 9 9 9 9 9 9 9 9 9 9 9 9 9 9 9 9 9 9 9 9 9 9 9 9 9 9 9 9 9 9 9 9 9 9 9 9 9 9 9 9 9 9 9 9 9 9 9 9 9 9 9 9 9 9 9 9 9 9 9 9 9 9 9 9 9 9 9 9 9 9 9 9 9 9 9 9 9 1 1 1 9 9 9 9 9 9 9 9 9 9 9 9 9 9 9 9 9 9 9 9 9 9 9 9 9 9 9 9 9 9 9 
+9 9 9 9 9 9 9 9 9 9 9 9 9 9 9 9 9 9 9 9 9 9 9 9 9 9 9 9 9 9 9 9 9 9 9 9 9 9 9 9 9 9 9 9 9 9 9 9 9 9 9 9 9 9 9 9 9 9 9 9 9 9 9 9 9 9 9 9 9 9 9 9 9 9 9 9 9 9 9 9 9 9 9 9 9 9 9 9 9 9 9 9 9 9 9 9 9 9 9 9 9 9 9 9 9 9 9 9 9 9 9 9 9 9 9 9 9 9 9 9 9 9 9 9 9 9 9 1 1 9 9 9 9 9 9 9 9 9 9 9 9 9 9 9 9 9 9 9 9 9 9 9 9 9 9 9 9 9 9 9 
+9 9 9 9 9 9 9 9 9 9 9 9 9 9 9 9 9 9 9 9 9 9 9 9 9 9 9 9 9 9 9 9 9 9 9 9 9 9 9 9 9 9 9 9 9 9 9 9 9 9 9 9 9 9 9 9 9 9 9 9 9 9 9 9 9 9 9 9 9 9 9 9 9 9 9 9 9 9 9 9 9 9 9 9 9 9 9 9 9 9 9 9 9 9 9 9 9 9 9 9 9 9 9 9 9 9 9 9 9 9 9 9 9 9 9 9 9 9 9 9 9 9 9 9 9 9 9 9 1 9 9 9 9 9 9 9 9 9 9 9 9 9 9 9 9 9 9 9 9 9 9 9 9 9 9 9 9 9 9 9 
+9 9 9 9 9 9 9 9 9 9 9 9 9 9 9 9 9 9 9 9 9 9 9 9 9 9 9 9 9 9 9 9 9 9 9 9 9 9 9 9 9 9 9 9 9 9 9 9 9 9 9 9 9 9 9 9 9 9 9 9 9 9 9 9 9 9 9 9 9 9 9 9 9 9 9 9 9 9 9 9 9 9 9 9 9 9 9 9 9 9 9 9 9 9 9 9 9 9 9 9 9 9 9 9 9 9 9 9 9 9 9 9 9 9 9 9 9 9 9 9 9 9 9 9 9 9 9 9 9 9 9 9 9 9 9 9 9 9 9 9 9 9 9 9 9 9 9 9 9 9 9 9 9 9 9 9 9 9 9 9 
+9 9 9 9 9 9 9 9 9 9 9 9 9 9 9 9 9 9 9 9 9 9 9 9 9 9 9 9 9 9 9 9 9 9 9 9 9 9 9 9 9 9 9 9 9 9 9 9 9 9 9 9 9 9 9 9 9 9 9 9 9 9 9 9 9 9 9 9 9 9 9 9 9 9 9 9 9 9 9 9 9 9 9 9 9 9 9 9 9 9 9 9 9 9 9 9 9 9 9 9 9 9 9 9 9 9 9 9 9 9 9 9 9 9 9 9 9 9 9 9 9 9 9 9 9 9 9 9 9 9 9 9 9 9 9 9 9 9 9 9 9 9 9 9 9 9 9 9 9 9 9 9 9 9 9 9 9 9 9 9 
+9 9 9 9 9 9 9 9 9 9 9 9 9 9 9 9 9 9 9 9 9 9 9 9 9 9 9 9 9 9 9 9 9 9 9 9 9 9 9 9 9 9 9 9 9 9 9 9 9 9 9 9 9 9 9 9 9 9 9 9 9 9 9 9 9 9 9 9 9 9 9 9 9 9 9 9 9 9 9 9 9 9 9 9 9 9 9 9 9 9 9 9 9 9 9 9 9 9 9 9 9 9 9 9 9 9 9 9 9 9 9 9 9 9 9 9 9 9 9 9 9 9 9 9 9 9 9 9 9 9 9 9 9 9 9 9 9 9 9 9 9 9 9 9 9 9 9 9 9 9 9 9 9 9 9 9 9 9 9 9 
+9 9 9 9 9 9 9 9 9 9 9 9 9 9 9 9 9 9 9 9 9 9 9 9 9 9 9 9 9 9 9 9 9 9 9 9 9 9 9 9 9 9 9 9 9 9 9 9 9 9 9 9 9 9 9 9 9 9 9 9 9 9 9 9 9 9 9 9 9 9 9 9 9 9 9 9 9 9 9 9 9 9 9 9 9 9 9 9 9 9 9 9 9 9 9 9 9 9 9 9 9 9 9 9 9 9 9 9 9 9 9 9 9 9 9 9 9 9 9 9 9 9 9 9 9 9 9 9 9 9 9 9 9 9 9 9 9 9 9 9 9 9 9 9 9 9 9 9 9 9 9 9 9 9 9 9 9 9 9 9 
+9 9 9 9 9 9 9 9 9 9 9 9 9 9 9 9 9 9 9 9 9 9 9 9 9 9 9 9 9 9 9 9 9 9 9 9 9 9 9 9 9 9 9 9 9 9 9 9 9 9 9 9 9 9 9 9 9 9 9 9 9 9 9 9 9 9 9 9 9 9 9 9 9 9 9 9 9 9 9 9 9 9 9 9 9 9 9 9 9 9 9 9 9 9 9 9 9 9 9 9 9 9 9 9 9 9 9 9 9 9 9 9 9 9 9 9 9 9 9 9 9 9 9 9 9 9 9 9 9 9 9 9 9 9 9 9 9 9 9 9 9 9 9 9 9 9 9 9 9 9 9 9 9 9 9 9 9 9 9 9 
+9 9 9 9 9 9 9 9 9 9 9 9 9 9 9 9 9 9 9 9 9 9 9 9 9 9 9 9 9 9 9 9 9 9 9 9 9 9 9 9 9 9 9 9 9 9 9 9 9 9 9 9 9 9 9 9 9 9 9 9 9 9 9 9 9 9 9 9 9 9 9 9 9 9 9 9 9 9 9 9 9 9 9 9 9 9 9 9 9 9 9 9 9 9 9 9 9 9 9 9 9 9 9 9 9 9 9 9 9 9 9 9 9 9 9 9 9 9 9 9 9 9 9 9 9 9 9 9 9 9 9 9 9 9 9 9 9 9 9 9 9 9 9 9 9 9 9 9 9 9 9 9 9 9 9 9 9 9 9 9 
+9 9 9 9 9 9 9 9 9 9 9 9 9 9 9 9 9 9 9 9 9 9 9 9 9 9 9 9 9 9 9 9 9 9 9 9 9 9 9 9 9 9 9 9 9 9 9 9 9 9 9 9 9 9 9 9 9 9 9 9 9 9 9 9 9 9 9 9 9 9 9 9 9 9 9 9 9 9 9 9 9 9 9 9 9 9 9 9 9 9 9 9 9 9 9 9 9 9 9 9 9 9 9 9 9 9 9 9 9 9 9 9 9 9 9 9 9 9 9 9 9 9 9 9 9 9 9 9 9 9 9 9 9 9 9 9 9 9 9 9 9 9 9 9 9 9 9 9 9 9 9 9 9 9 9 9 9 9 9 9 
+9 9 9 9 9 9 9 9 9 9 9 9 9 9 9 9 9 9 9 9 9 9 9 9 9 9 9 9 9 9 9 9 9 9 9 9 9 9 9 9 9 9 9 9 9 9 9 9 9 9 9 9 9 9 9 9 9 9 9 9 9 9 9 9 9 9 9 9 9 9 9 9 9 9 9 9 9 9 9 9 9 9 9 9 9 9 9 9 9 9 9 9 9 9 9 9 9 9 9 9 9 9 9 9 9 9 9 9 9 9 9 9 9 9 9 9 9 9 9 9 9 9 9 9 9 9 9 9 9 9 9 9 9 9 9 9 9 9 9 9 9 9 9 9 9 9 9 9 9 9 9 9 9 9 9 9 9 9 9 9 
+9 9 9 9 9 9 9 9 9 9 9 9 9 9 9 9 9 9 9 9 9 9 9 9 9 9 9 9 9 9 9 9 9 9 9 9 9 9 9 9 9 9 9 9 9 9 9 9 9 9 9 9 9 9 9 9 9 9 9 9 9 9 9 9 9 9 9 9 9 9 9 9 9 9 9 9 9 9 9 9 9 9 9 9 9 9 9 9 9 9 9 9 9 9 9 9 9 9 9 9 9 9 9 9 9 9 9 9 9 9 9 9 9 9 9 9 9 9 9 9 9 9 9 9 9 9 9 9 9 9 9 9 9 9 9 9 9 9 9 9 9 9 9 9 9 9 9 9 9 9 9 9 9 9 9 9 9 9 9 9 
+9 9 9 9 9 9 9 9 9 9 9 9 9 9 9 9 9 9 9 9 9 9 9 9 9 9 9 9 9 9 9 9 9 9 9 9 9 9 9 9 9 9 9 9 9 9 9 9 9 9 9 9 9 9 9 9 9 9 9 9 9 9 9 9 9 9 9 9 9 9 9 9 9 9 9 9 9 9 9 9 9 9 9 9 9 9 9 9 9 9 9 9 9 9 9 9 9 9 9 9 9 9 9 9 9 9 9 9 9 9 9 9 9 9 9 9 9 9 9 9 9 9 9 9 9 9 9 9 9 9 9 9 9 9 9 9 9 9 9 9 9 9 9 9 9 9 9 9 9 9 9 9 9 9 9 9 9 9 9 9 
+9 9 9 9 9 9 9 9 9 9 9 9 9 9 9 9 9 9 9 9 9 9 9 9 9 9 9 9 9 9 9 9 9 9 9 9 9 9 9 9 9 9 9 9 9 9 9 9 9 9 9 9 9 9 9 9 9 9 9 9 9 9 9 9 9 9 9 9 9 9 9 9 9 9 9 9 9 9 9 9 9 9 9 9 9 9 9 9 9 9 9 9 9 9 9 9 9 9 9 9 9 9 9 9 9 9 9 9 9 9 9 9 9 9 9 9 9 9 9 9 9 9 9 9 9 9 9 9 9 9 9 9 9 9 9 9 9 9 9 9 9 9 9 9 9 9 9 9 9 9 9 9 9 9 9 9 9 9 9 9 
+9 9 9 9 9 9 9 9 9 9 9 9 9 9 9 9 9 9 9 9 9 9 9 9 9 9 9 9 9 9 9 9 9 9 9 9 9 9 9 9 9 9 9 9 9 9 9 9 9 9 9 9 9 9 9 9 9 9 9 9 9 9 9 9 9 9 9 9 9 9 9 9 9 9 9 9 9 9 9 9 9 9 9 9 9 9 9 9 9 9 9 9 9 9 9 9 9 9 9 9 9 9 9 9 9 9 9 9 9 9 9 9 9 9 9 9 9 9 9 9 9 9 9 9 9 9 9 9 9 9 9 9 9 9 9 9 9 9 9 9 9 9 9 9 9 9 9 9 9 9 9 9 9 9 9 9 9 9 9 9 
+9 9 9 9 9 9 9 9 9 9 9 9 9 9 9 9 9 9 9 9 9 9 9 9 9 9 9 9 9 9 9 9 9 9 9 9 9 9 9 9 9 9 9 9 9 9 9 9 9 9 9 9 9 9 9 9 9 9 9 9 9 9 9 9 9 9 9 9 9 9 9 9 9 9 9 9 9 9 9 9 9 9 9 9 9 9 9 9 9 9 9 9 9 9 9 9 9 9 9 9 9 9 9 9 9 9 9 9 9 9 9 9 9 9 9 9 9 9 9 9 9 9 9 9 9 9 9 9 9 9 9 9 9 9 9 9 9 9 9 9 9 9 9 9 9 9 9 9 9 9 9 9 9 9 9 9 9 9 9 9 
+9 9 9 9 9 9 9 9 9 9 9 9 9 9 9 9 9 9 9 9 9 9 9 9 9 9 9 9 9 9 9 9 9 9 9 9 9 9 9 9 9 9 9 9 9 9 9 9 9 9 9 9 9 9 9 9 9 9 9 9 9 9 9 9 9 9 9 9 9 9 9 9 9 9 9 9 9 9 9 9 9 9 9 9 9 9 9 9 9 9 9 9 9 9 9 9 9 9 9 9 9 9 9 9 9 9 9 9 9 9 9 9 9 9 9 9 9 9 9 9 9 9 9 9 9 9 9 9 9 9 9 9 9 9 9 9 9 9 9 9 9 9 9 9 9 9 9 9 9 9 9 9 9 9 9 9 9 9 9 9 
+9 9 9 9 9 9 9 9 9 9 9 9 9 9 9 9 9 9 9 9 9 9 9 9 9 9 9 9 9 9 9 9 9 9 9 9 9 9 9 9 9 9 9 9 9 9 9 9 9 9 9 9 9 9 9 9 9 9 9 9 9 9 9 9 9 9 9 9 9 9 9 9 9 9 9 9 9 9 9 9 9 9 9 9 9 9 9 9 9 9 9 9 9 9 9 9 9 9 9 9 9 9 9 9 9 9 9 9 9 9 9 9 9 9 9 9 9 9 9 9 9 9 9 9 9 9 9 9 9 9 9 9 9 9 9 9 9 9 9 9 9 9 9 9 9 9 9 9 9 9 9 9 9 9 9 9 9 9 9 9 
+9 9 9 9 9 9 9 9 9 9 9 9 9 9 9 9 9 9 9 9 9 9 9 9 9 9 9 9 9 9 9 9 9 9 9 9 9 9 9 9 9 9 9 9 9 9 9 9 9 9 9 9 9 9 9 9 9 9 9 9 9 9 9 9 9 9 9 9 9 9 9 9 9 9 9 9 9 9 9 9 9 9 9 9 9 9 9 9 9 9 9 9 9 9 9 9 9 9 9 9 9 9 9 9 9 9 9 9 9 9 9 9 9 9 9 9 9 9 9 9 9 9 9 9 9 9 9 9 9 9 9 9 9 9 9 9 9 9 9 9 9 9 9 9 9 9 9 9 9 9 9 9 9 9 9 9 9 9 9 9 
+9 9 9 9 9 9 9 9 9 9 9 9 9 9 9 9 9 9 9 9 9 9 9 9 9 9 9 9 9 9 9 9 9 9 9 9 9 9 9 9 9 9 9 9 9 9 9 9 9 9 9 9 9 9 9 9 9 9 9 9 9 9 9 9 9 9 9 9 9 9 9 9 9 9 9 9 9 9 9 9 9 9 9 9 9 9 9 9 9 9 9 9 9 9 9 9 9 9 9 9 9 9 9 9 9 9 9 9 9 9 9 9 9 9 9 9 9 9 9 9 9 9 9 9 9 9 9 9 9 9 9 9 9 9 9 9 9 9 9 9 9 9 9 9 9 9 9 9 9 9 9 9 9 9 9 9 9 9 9 9 
+9 9 9 9 9 9 9 9 9 9 9 9 9 9 9 9 9 9 9 9 9 9 9 9 9 9 9 9 9 9 9 9 9 9 9 9 9 9 9 9 9 9 9 9 9 9 9 9 9 9 9 9 9 9 9 9 9 9 9 9 9 9 9 9 9 9 9 9 9 9 9 9 9 9 9 9 9 9 9 9 9 9 9 9 9 9 9 9 9 9 9 9 9 9 9 9 9 9 9 9 9 9 9 9 9 9 9 9 9 9 9 9 9 9 9 9 9 9 9 9 9 9 9 9 9 9 9 9 9 9 9 9 9 9 9 9 9 9 9 9 9 9 9 9 9 9 9 9 9 9 9 9 9 9 9 9 9 9 9 9 
+9 9 9 9 9 9 9 9 9 9 9 9 9 9 9 9 9 9 9 9 9 9 9 9 9 9 9 9 9 9 9 9 9 9 9 9 9 9 9 9 9 9 9 9 9 9 9 9 9 9 9 9 9 9 9 9 9 9 9 9 9 9 9 9 9 9 9 9 9 9 9 9 9 9 9 9 9 9 9 9 9 9 9 9 9 9 9 9 9 9 9 9 9 9 9 9 9 9 9 9 9 9 9 9 9 9 9 9 9 9 9 9 9 9 9 9 9 9 9 9 9 9 9 9 9 9 9 9 9 9 9 9 9 9 9 9 9 9 9 9 9 9 9 9 9 9 9 9 9 9 9 9 9 9 9 9 9 9 9 9 
+9 9 9 9 9 9 9 9 9 9 9 9 9 9 9 9 9 9 9 9 9 9 9 9 9 9 9 9 9 9 9 9 9 9 9 9 9 9 9 9 9 9 9 9 9 9 9 9 9 9 9 9 9 9 9 9 9 9 9 9 9 9 9 9 9 9 9 9 9 9 9 9 9 9 9 9 9 9 9 9 9 9 9 9 9 9 9 9 9 9 9 9 9 9 9 9 9 9 9 9 9 9 9 9 9 9 9 9 9 9 9 9 9 9 9 9 9 9 9 9 9 9 9 9 9 9 9 9 9 9 9 9 9 9 9 9 9 9 9 9 9 9 9 9 9 9 9 9 9 9 9 9 9 9 9 9 9 9 9 9 
+9 9 9 9 9 9 9 9 9 9 9 9 9 9 9 9 9 9 9 9 9 9 9 9 9 9 9 9 9 9 9 9 9 9 9 9 9 9 9 9 9 9 9 9 9 9 9 9 9 9 9 9 9 9 9 9 9 9 9 9 9 9 9 9 9 9 9 9 9 9 9 9 9 9 9 9 9 9 9 9 9 9 9 9 9 9 9 9 9 9 9 9 9 9 9 9 9 9 9 9 9 9 9 9 9 9 9 9 9 9 9 9 9 9 9 9 9 9 9 9 9 9 9 9 9 9 9 9 9 9 9 9 9 9 9 9 9 9 9 9 9 9 9 9 9 9 9 9 9 9 9 9 9 9 9 9 9 9 9 9 
+9 9 9 9 9 9 9 9 9 9 9 9 9 9 9 9 9 9 9 9 9 9 9 9 9 9 9 9 9 9 9 9 9 9 9 9 9 9 9 9 9 9 9 9 9 9 9 9 9 9 9 9 9 9 9 9 9 9 9 9 9 9 9 9 9 9 9 9 9 9 9 9 9 9 9 9 9 9 9 9 9 9 9 9 9 9 9 9 9 9 9 9 9 9 9 9 9 9 9 9 9 9 9 9 9 9 9 9 9 9 9 9 9 9 9 9 9 9 9 9 9 9 9 9 9 9 9 9 9 9 9 9 9 9 9 9 9 9 9 9 9 9 9 9 9 9 9 9 9 9 9 9 9 9 9 9 9 9 9 9 
+9 9 9 9 9 9 9 9 9 9 9 9 9 9 9 9 9 9 9 9 9 9 9 9 9 9 9 9 9 9 9 9 9 9 9 9 9 9 9 9 9 9 9 9 9 9 9 9 9 9 9 9 9 9 9 9 9 9 9 9 9 9 9 9 9 9 9 9 9 9 9 9 9 9 9 9 9 9 9 9 9 9 9 9 9 9 9 9 9 9 9 9 9 9 9 9 9 9 9 9 9 9 9 9 9 9 9 9 9 9 9 9 9 9 9 9 9 9 9 9 9 9 9 9 9 9 9 9 9 9 9 9 9 9 9 9 9 9 9 9 9 9 9 9 9 9 9 9 9 9 9 9 9 9 9 9 9 9 9 9 
+9 9 9 9 9 9 9 9 9 9 9 9 9 9 9 9 9 9 9 9 9 9 9 9 9 9 9 9 9 9 9 9 9 9 9 9 9 9 9 9 9 9 9 9 9 9 9 9 9 9 9 9 9 9 9 9 9 9 9 9 9 9 9 9 9 9 9 9 9 9 9 9 9 9 9 9 9 9 9 9 9 9 9 9 9 9 9 9 9 9 9 9 9 9 9 9 9 9 9 9 9 9 9 9 9 9 9 9 9 9 9 9 9 9 9 9 9 9 9 9 9 9 9 9 9 9 9 9 9 9 9 9 9 9 9 9 9 9 9 9 9 9 9 9 9 9 9 9 9 9 9 9 9 9 9 9 9 9 9 9 
+9 9 9 9 9 9 9 9 9 9 9 9 9 9 9 9 9 9 9 9 9 9 9 9 9 9 9 9 9 9 9 9 9 9 9 9 9 9 9 9 9 9 9 9 9 9 9 9 9 9 9 9 9 9 9 9 9 9 9 9 9 9 9 9 9 9 9 9 9 9 9 9 9 9 9 9 9 9 9 9 9 9 9 9 9 9 9 9 9 9 9 9 9 9 9 9 9 9 9 9 9 9 9 9 9 9 9 9 9 9 9 9 9 9 9 9 9 9 9 9 9 9 9 9 9 9 9 9 9 9 9 9 9 9 9 9 9 9 9 9 9 9 9 9 9 9 9 9 9 9 9 9 9 9 9 9 9 9 9 9 
+9 9 9 9 9 9 9 9 9 9 9 9 9 9 9 9 9 9 9 9 9 9 9 9 9 9 9 9 9 9 9 9 9 9 9 9 9 9 9 9 9 9 9 9 9 9 9 9 9 9 9 9 9 9 9 9 9 9 9 9 9 9 9 9 9 9 9 9 9 9 9 9 9 9 9 9 9 9 9 9 9 9 9 9 9 9 9 9 9 9 9 9 9 9 9 9 9 9 9 9 9 9 9 9 9 9 9 9 9 9 9 9 9 9 9 9 9 9 9 9 9 9 9 9 9 9 9 9 9 9 9 9 9 9 9 9 9 9 9 9 9 9 9 9 9 9 9 9 9 9 9 9 9 9 9 9 9 9 9 9 
+9 9 9 9 9 9 9 9 9 9 9 9 9 9 9 9 9 9 9 9 9 9 9 9 9 9 9 9 9 9 9 9 9 9 9 9 9 9 9 9 9 9 9 9 9 9 9 9 9 9 9 9 9 9 9 9 9 9 9 9 9 9 9 9 9 9 9 9 9 9 9 9 9 9 9 9 9 9 9 9 9 9 9 9 9 9 9 9 9 9 9 9 9 9 9 9 9 9 9 9 9 9 9 9 9 9 9 9 9 9 9 9 9 9 9 9 9 9 9 9 9 9 9 9 9 9 9 9 9 9 9 9 9 9 9 9 9 9 9 9 9 9 9 9 9 9 9 9 9 9 9 9 9 9 9 9 9 9 9 9 
+9 9 9 9 9 9 9 9 9 9 9 9 9 9 9 9 9 9 9 9 9 9 9 9 9 9 9 9 9 9 9 9 9 9 9 9 9 9 9 9 9 9 9 9 9 9 9 9 9 9 9 9 9 9 9 9 9 9 9 9 9 9 9 9 9 9 9 9 9 9 9 9 9 9 9 9 9 9 9 9 9 9 9 9 9 9 9 9 9 9 9 9 9 9 9 9 9 9 9 9 9 9 9 9 9 9 9 9 9 9 9 9 9 9 9 9 9 9 9 9 9 9 9 9 9 9 9 9 9 9 9 9 9 9 9 9 9 9 9 9 9 9 9 9 9 9 9 9 9 9 9 9 9 9 9 9 9 9 9 9 
+9 9 9 9 9 9 9 9 9 9 9 9 9 9 9 9 9 9 9 9 9 9 9 9 9 9 9 9 9 9 9 9 9 9 9 9 9 9 9 9 9 9 9 9 9 9 9 9 9 9 9 9 9 9 9 9 9 9 9 9 9 9 9 9 9 9 9 9 9 9 9 9 9 9 9 9 9 9 9 9 9 9 9 9 9 9 9 9 9 9 9 9 9 9 9 9 9 9 9 9 9 9 9 9 9 9 9 9 9 9 9 9 9 9 9 9 9 9 9 9 9 9 9 9 9 9 9 9 9 9 9 9 9 9 9 9 9 9 9 9 9 9 9 9 9 9 9 9 9 9 9 9 9 9 9 9 9 9 9 9 
+9 9 9 9 9 9 9 9 9 9 9 9 9 9 9 9 9 9 9 9 9 9 9 9 9 9 9 9 9 9 9 9 9 9 9 9 9 9 9 9 9 9 9 9 9 9 9 9 9 9 9 9 9 9 9 9 9 9 9 9 9 9 9 9 9 9 9 9 9 9 9 9 9 9 9 9 9 9 9 9 9 9 9 9 9 9 9 9 9 9 9 9 9 9 9 9 9 9 9 9 9 9 9 9 9 9 9 9 9 9 9 9 9 9 9 9 9 9 9 9 9 9 9 9 9 9 9 9 9 9 9 9 9 9 9 9 9 9 9 9 9 9 9 9 9 9 9 9 9 9 9 9 9 9 9 9 9 9 9 9 
+9 9 9 9 9 9 9 9 9 9 9 9 9 9 9 9 9 9 9 9 9 9 9 9 9 9 9 9 9 9 9 9 9 9 9 9 9 9 9 9 9 9 9 9 9 9 9 9 9 9 9 9 9 9 9 9 9 9 9 9 9 9 9 9 9 9 9 9 9 9 9 9 9 9 9 9 9 9 9 9 9 9 9 9 9 9 9 9 9 9 9 9 9 9 9 9 9 9 9 9 9 9 9 9 9 9 9 9 9 9 9 9 9 9 9 9 9 9 9 9 9 9 9 9 9 9 9 9 9 9 9 9 9 9 9 9 9 9 9 9 9 9 9 9 9 9 9 9 9 9 9 9 9 9 9 9 9 9 9 9 
+9 9 9 9 9 9 9 9 9 9 9 9 9 9 9 9 9 9 9 9 9 9 9 9 9 9 9 9 9 9 9 9 9 9 9 9 9 9 9 9 9 9 9 9 9 9 9 9 9 9 9 9 9 9 9 9 9 9 9 9 9 9 9 9 9 9 9 9 9 9 9 9 9 9 9 9 9 9 9 9 9 9 9 9 9 9 9 9 9 9 9 9 9 9 9 9 9 9 9 9 9 9 9 9 9 9 9 9 9 9 9 9 9 9 9 9 9 9 9 9 9 9 9 9 9 9 9 9 9 9 9 9 9 9 9 9 9 9 9 9 9 9 9 9 9 9 9 9 9 9 9 9 9 9 9 9 9 9 9 9 
+9 9 9 9 9 9 9 9 9 9 9 9 9 9 9 9 9 9 9 9 9 9 9 9 9 9 9 9 9 9 9 9 9 9 9 9 9 9 9 9 9 9 9 9 9 9 9 9 9 9 9 9 9 9 9 9 9 9 9 9 9 9 9 9 9 9 9 9 9 9 9 9 9 9 9 9 9 9 9 9 9 9 9 9 9 9 9 9 9 9 9 9 9 9 9 9 9 9 9 9 9 9 9 9 9 9 9 9 9 9 9 9 9 9 9 9 9 9 9 9 9 9 9 9 9 9 9 9 9 9 9 9 9 9 9 9 9 9 9 9 9 9 9 9 9 9 9 9 9 9 9 9 9 9 9 9 9 9 9 9 
+9 9 9 9 9 9 9 9 9 9 9 9 9 9 9 9 9 9 9 9 9 9 9 9 9 9 9 9 9 9 9 9 9 9 9 9 9 9 9 9 9 9 9 9 9 9 9 9 9 9 9 9 9 9 9 9 9 9 9 9 9 9 9 9 9 9 9 9 9 9 9 9 9 9 9 9 9 9 9 9 9 9 9 9 9 9 9 9 9 9 9 9 9 9 9 9 9 9 9 9 9 9 9 9 9 9 9 9 9 9 9 9 9 9 9 9 9 9 9 9 9 9 9 9 9 9 9 9 9 9 9 9 9 9 9 9 9 9 9 9 9 9 9 9 9 9 9 9 9 9 9 9 9 9 9 9 9 9 9 9 
+9 9 9 9 9 9 9 9 9 9 9 9 9 9 9 9 9 9 9 9 9 9 9 9 9 9 9 9 9 9 9 9 9 9 9 9 9 9 9 9 9 9 9 9 9 9 9 9 9 9 9 9 9 9 9 9 9 9 9 9 9 9 9 9 9 9 9 9 9 9 9 9 9 9 9 9 9 9 9 9 9 9 9 9 9 9 9 9 9 9 9 9 9 9 9 9 9 9 9 9 9 9 9 9 9 9 9 9 9 9 9 9 9 9 9 9 9 9 9 9 9 9 9 9 9 9 9 9 9 9 9 9 9 9 9 9 9 9 9 9 9 9 9 9 9 9 9 9 9 9 9 9 9 9 9 9 9 9 9 9 
+9 9 9 9 9 9 9 9 9 9 9 9 9 9 9 9 9 9 9 9 9 9 9 9 9 9 9 9 9 9 9 9 9 9 9 9 9 9 9 9 9 9 9 9 9 9 9 9 9 9 9 9 9 9 9 9 9 9 9 9 9 9 9 9 9 9 9 9 9 9 9 9 9 9 9 9 9 9 9 9 9 9 9 9 9 9 9 9 9 9 9 9 9 9 9 9 9 9 9 9 9 9 9 9 9 9 9 9 9 9 9 9 9 9 9 9 9 9 9 9 9 9 9 9 9 9 9 9 9 9 9 9 9 9 9 9 9 9 9 9 9 9 9 9 9 9 9 9 9 9 9 9 9 9 9 9 9 9 9 9 
+9 9 9 9 9 9 9 9 9 9 9 9 9 9 9 9 9 9 9 9 9 9 9 9 9 9 9 9 9 9 9 9 9 9 9 9 9 9 9 9 9 9 9 9 9 9 9 9 9 9 9 9 9 9 9 9 9 9 9 9 9 9 9 9 9 9 9 9 9 9 9 9 9 9 9 9 9 9 9 9 9 9 9 9 9 9 9 9 9 9 9 9 9 9 9 9 9 9 9 9 9 9 9 9 9 9 9 9 9 9 9 9 9 9 9 9 9 9 9 9 9 9 9 9 9 9 9 9 9 9 9 9 9 9 9 9 9 9 9 9 9 9 9 9 9 9 9 9 9 9 9 9 9 9 9 9 9 9 9 9 
+9 9 9 9 9 9 9 9 9 9 9 9 9 9 9 9 9 9 9 9 9 9 9 9 9 9 9 9 9 9 9 9 9 9 9 9 9 9 9 9 9 9 9 9 9 9 9 9 9 9 9 9 9 9 9 9 9 9 9 9 9 9 9 9 9 9 9 9 9 9 9 9 9 9 9 9 9 9 9 9 9 9 9 9 9 9 9 9 9 9 9 9 9 9 9 9 9 9 9 9 9 9 9 9 9 9 9 9 9 9 9 9 9 9 9 9 9 9 9 9 9 9 9 9 9 9 9 9 9 9 9 9 9 9 9 9 9 9 9 9 9 9 9 9 9 9 9 9 9 9 9 9 9 9 9 9 9 9 9 9 
+9 9 9 9 9 9 9 9 9 9 9 9 9 9 9 9 9 9 9 9 9 9 9 9 9 9 9 9 9 9 9 9 9 9 9 9 9 9 9 9 9 9 9 9 9 9 9 9 9 9 9 9 9 9 9 9 9 9 9 9 9 9 9 9 9 9 9 9 9 9 9 9 9 9 9 9 9 9 9 9 9 9 9 9 9 9 9 9 9 9 9 9 9 9 9 9 9 9 9 9 9 9 9 9 9 9 9 9 9 9 9 9 9 9 9 9 9 9 9 9 9 9 9 9 9 9 9 9 9 9 9 9 9 9 9 9 9 9 9 9 9 9 9 9 9 9 9 9 9 9 9 9 9 9 9 9 9 9 9 9 
+9 9 9 9 9 9 9 9 9 9 9 9 9 9 9 9 9 9 9 9 9 9 9 9 9 9 9 9 9 9 9 9 9 9 9 9 9 9 9 9 9 9 9 9 9 9 9 9 9 9 9 9 9 9 9 9 9 9 9 9 9 9 9 9 9 9 9 9 9 9 9 9 9 9 9 9 9 9 9 9 9 9 9 9 9 9 9 9 9 9 9 9 9 9 9 9 9 9 9 9 9 9 9 9 9 9 9 9 9 9 9 9 9 9 9 9 9 9 9 9 9 9 9 9 9 9 9 9 9 9 9 9 9 9 9 9 9 9 9 9 9 9 9 9 9 9 9 9 9 9 9 9 9 9 9 9 9 9 9 9 
+9 9 9 9 9 9 9 9 9 9 9 9 9 9 9 9 9 9 9 9 9 9 9 9 9 9 9 9 9 9 9 9 9 9 9 9 9 9 9 9 9 9 9 9 9 9 9 9 9 9 9 9 9 9 9 9 9 9 9 9 9 9 9 9 9 9 9 9 9 9 9 9 9 9 9 9 9 9 9 9 9 9 9 9 9 9 9 9 9 9 9 9 9 9 9 9 9 9 9 9 9 9 9 9 9 9 9 9 9 9 9 9 9 9 9 9 9 9 9 9 9 9 9 9 9 9 9 9 9 9 9 9 9 9 9 9 9 9 9 9 9 9 9 9 9 9 9 9 9 9 9 9 9 9 9 9 9 9 9 9 
+9 9 9 9 9 9 9 9 9 9 9 9 9 9 9 9 9 9 9 9 9 9 9 9 9 9 9 9 9 9 9 9 9 9 9 9 9 9 9 9 9 9 9 9 9 9 9 9 9 9 9 9 9 9 9 9 9 9 9 9 9 9 9 9 9 9 9 9 9 9 9 9 9 9 9 9 9 9 9 9 9 9 9 9 9 9 9 9 9 9 9 9 9 9 9 9 9 9 9 9 9 9 9 9 9 9 9 9 9 9 9 9 9 9 9 9 9 9 9 9 9 9 9 9 9 9 9 9 9 9 9 9 9 9 9 9 9 9 9 9 9 9 9 9 9 9 9 9 9 9 9 9 9 9 9 9 9 9 9 9 
+9 9 9 9 9 9 9 9 9 9 9 9 9 9 9 9 9 9 9 9 9 9 9 9 9 9 9 9 9 9 9 9 9 9 9 9 9 9 9 9 9 9 9 9 9 9 9 9 9 9 9 9 9 9 9 9 9 9 9 9 9 9 9 9 9 9 9 9 9 9 9 9 9 9 9 9 9 9 9 9 9 9 9 9 9 9 9 9 9 9 9 9 9 9 9 9 9 9 9 9 9 9 9 9 9 9 9 9 9 9 9 9 9 9 9 9 9 9 9 9 9 9 9 9 9 9 9 9 9 9 9 9 9 9 9 9 9 9 9 9 9 9 9 9 9 9 9 9 9 9 9 9 9 9 9 9 9 9 9 9 
+9 9 9 9 9 9 9 9 9 9 9 9 9 9 9 9 9 9 9 9 9 9 9 9 9 9 9 9 9 9 9 9 9 9 9 9 9 9 9 9 9 9 9 9 9 9 9 9 9 9 9 9 9 9 9 9 9 9 9 9 9 9 9 9 9 9 9 9 9 9 9 9 9 9 9 9 9 9 9 9 9 9 9 9 9 9 9 9 9 9 9 9 9 9 9 9 9 9 9 9 9 9 9 9 9 9 9 9 9 9 9 9 9 9 9 9 9 9 9 9 9 9 9 9 9 9 9 9 9 9 9 9 9 9 9 9 9 9 9 9 9 9 9 9 9 9 9 9 9 9 9 9 9 9 9 9 9 9 9 9 
+9 9 9 9 9 9 9 9 9 9 9 9 9 9 9 9 9 9 9 9 9 9 9 9 9 9 9 9 9 9 9 9 9 9 9 9 9 9 9 9 9 9 9 9 9 9 9 9 9 9 9 9 9 9 9 9 9 9 9 9 9 9 9 9 9 9 9 9 9 9 9 9 9 9 9 9 9 9 9 9 9 9 9 9 9 9 9 9 9 9 9 9 9 9 9 9 9 9 9 9 9 9 9 9 9 9 9 9 9 9 9 9 9 9 9 9 9 9 9 9 9 9 9 9 9 9 9 9 9 9 9 9 9 9 9 9 9 9 9 9 9 9 9 9 9 9 9 9 9 9 9 9 9 9 9 9 9 9 9 9 
+9 9 9 9 9 9 9 9 9 9 9 9 9 9 9 9 9 9 9 9 9 9 9 9 9 9 9 9 9 9 9 9 9 9 9 9 9 9 9 9 9 9 9 9 9 9 9 9 9 9 9 9 9 9 9 9 9 9 9 9 9 9 9 9 9 9 9 9 9 9 9 9 9 9 9 9 9 9 9 9 9 9 9 9 9 9 9 9 9 9 9 9 9 9 9 9 9 9 9 9 9 9 9 9 9 9 9 9 9 9 9 9 9 9 9 9 9 9 9 9 9 9 9 9 9 9 9 9 9 9 9 9 9 9 9 9 9 9 9 9 9 9 9 9 9 9 9 9 9 9 9 9 9 9 9 9 9 9 9 9 
+9 9 9 9 9 9 9 9 9 9 9 9 9 9 9 9 9 9 9 9 9 9 9 9 9 9 9 9 9 9 9 9 9 9 9 9 9 9 9 9 9 9 9 9 9 9 9 9 9 9 9 9 9 9 9 9 9 9 9 9 9 9 9 9 9 9 9 9 9 9 9 9 9 9 9 9 9 9 9 9 9 9 9 9 9 9 9 9 9 9 9 9 9 9 9 9 9 9 9 9 9 9 9 9 9 9 9 9 9 9 9 9 9 9 9 9 9 9 9 9 9 9 9 9 9 9 9 9 9 9 9 9 9 9 9 9 9 9 9 9 9 9 9 9 9 9 9 9 9 9 9 9 9 9 9 9 9 9 9 9 
+9 9 9 9 9 9 9 9 9 9 9 9 9 9 9 9 9 9 9 9 9 9 9 9 9 9 9 9 9 9 9 9 9 9 9 9 9 9 9 9 9 9 9 9 9 9 9 9 9 9 9 9 9 9 9 9 9 9 9 9 9 9 9 9 9 9 9 9 9 9 9 9 9 9 9 9 9 9 9 9 9 9 9 9 9 9 9 9 9 9 9 9 9 9 9 9 9 9 9 9 9 9 9 9 9 9 9 9 9 9 9 9 9 9 9 9 9 9 9 9 9 9 9 9 9 9 9 9 9 9 9 9 9 9 9 9 9 9 9 9 9 9 9 9 9 9 9 9 9 9 9 9 9 9 9 9 9 9 9 9 
+9 9 9 9 9 9 9 9 9 9 9 9 9 9 9 9 9 9 9 9 9 9 9 9 9 9 9 9 9 9 9 9 9 9 9 9 9 9 9 9 9 9 9 9 9 9 9 9 9 9 9 9 9 9 9 9 9 9 9 9 9 9 9 9 9 9 9 9 9 9 9 9 9 9 9 9 9 9 9 9 9 9 9 9 9 9 9 9 9 9 9 9 9 9 9 9 9 9 9 9 9 9 9 9 9 9 9 9 9 9 9 9 9 9 9 9 9 9 9 9 9 9 9 9 9 9 9 9 9 9 9 9 9 9 9 9 9 9 9 9 9 9 9 9 9 9 9 9 9 9 9 9 9 9 9 9 9 9 9 9 
+9 9 9 9 9 9 9 9 9 9 9 9 9 9 9 9 9 9 9 9 9 9 9 9 9 9 9 9 9 9 9 9 9 9 9 9 9 9 9 9 9 9 9 9 9 9 9 9 9 9 9 9 9 9 9 9 9 9 9 9 9 9 9 9 9 9 9 9 9 9 9 9 9 9 9 9 9 9 9 9 9 9 9 9 9 9 9 9 9 9 9 9 9 9 9 9 9 9 9 9 9 9 9 9 9 9 9 9 9 9 9 9 9 9 9 9 9 9 9 9 9 9 9 9 9 9 9 9 9 9 9 9 9 9 9 9 9 9 9 9 9 9 9 9 9 9 9 9 9 9 9 9 9 9 9 9 9 9 9 9 
+9 9 9 9 9 9 9 9 9 9 9 9 9 9 9 9 9 9 9 9 9 9 9 9 9 9 9 9 9 9 9 9 9 9 9 9 9 9 9 9 9 9 9 9 9 9 9 9 9 9 9 9 9 9 9 9 9 9 9 9 9 9 9 9 9 9 9 9 9 9 9 9 9 9 9 9 9 9 9 9 9 9 9 9 9 9 9 9 9 9 9 9 9 9 9 9 9 9 9 9 9 9 9 9 9 9 9 9 9 9 9 9 9 9 9 9 9 9 9 9 9 9 9 9 9 9 9 9 9 9 9 9 9 9 9 9 9 9 9 9 9 9 9 9 9 9 9 9 9 9 9 9 9 9 9 9 9 9 9 9 
+9 9 9 9 9 9 9 9 9 9 9 9 9 9 9 9 9 9 9 9 9 9 9 9 9 9 9 9 9 9 9 9 9 9 9 9 9 9 9 9 9 9 9 9 9 9 9 9 9 9 9 9 9 9 9 9 9 9 9 9 9 9 9 9 9 9 9 9 9 9 9 9 9 9 9 9 9 9 9 9 9 9 9 9 9 9 9 9 9 9 9 9 9 9 9 9 9 9 9 9 9 9 9 9 9 9 9 9 9 9 9 9 9 9 9 9 9 9 9 9 9 9 9 9 9 9 9 9 9 9 9 9 9 9 9 9 9 9 9 9 9 9 9 9 9 9 9 9 9 9 9 9 9 9 9 9 9 9 9 9 
+9 9 9 9 9 9 9 9 9 9 9 9 9 9 9 9 9 9 9 9 9 9 9 9 9 9 9 9 9 9 9 9 9 9 9 9 9 9 9 9 9 9 9 9 9 9 9 9 9 9 9 9 9 9 9 9 9 9 9 9 9 9 9 9 9 9 9 9 9 9 9 9 9 9 9 9 9 9 9 9 9 9 9 9 9 9 9 9 9 9 9 9 9 9 9 9 9 9 9 9 9 9 9 9 9 9 9 9 9 9 9 9 9 9 9 9 9 9 9 9 9 9 9 9 9 9 9 9 9 9 9 9 9 9 9 9 9 9 9 9 9 9 9 9 9 9 9 9 9 9 9 9 9 9 9 9 9 9 9 9 
+9 9 9 9 9 9 9 9 9 9 9 9 9 9 9 9 9 9 9 9 9 9 9 9 9 9 9 9 9 9 9 9 9 9 9 9 9 9 9 9 9 9 9 9 9 9 9 9 9 9 9 9 9 9 9 9 9 9 9 9 9 9 9 9 9 9 9 9 9 9 9 9 9 9 9 9 9 9 9 9 9 9 9 9 9 9 9 9 9 9 9 9 9 9 9 9 9 9 9 9 9 9 9 9 9 9 9 9 9 9 9 9 9 9 9 9 9 9 9 9 9 9 9 9 9 9 9 9 9 9 9 9 9 9 9 9 9 9 9 9 9 9 9 9 9 9 9 9 9 9 9 9 9 9 9 9 9 9 9 9 
+9 9 9 9 9 9 9 9 9 9 9 9 9 9 9 9 9 9 9 9 9 9 9 9 9 9 9 9 9 9 9 9 9 9 9 9 9 9 9 9 9 9 9 9 9 9 9 9 9 9 9 9 9 9 9 9 9 9 9 9 9 9 9 9 9 9 9 9 9 9 9 9 9 9 9 9 9 9 9 9 9 9 9 9 9 9 9 9 9 9 9 9 9 9 9 9 9 9 9 9 9 9 9 9 9 9 9 9 9 9 9 9 9 9 9 9 9 9 9 9 9 9 9 9 9 9 9 9 9 9 9 9 9 9 9 9 9 9 9 9 9 9 9 9 9 9 9 9 9 9 9 9 9 9 9 9 9 9 9 9 
+9 9 9 9 9 9 9 9 9 9 9 9 9 9 9 9 9 9 9 9 9 9 9 9 9 9 9 9 9 9 9 9 9 9 9 9 9 9 9 9 9 9 9 9 9 9 9 9 9 9 9 9 9 9 9 9 9 9 9 9 9 9 9 9 9 9 9 9 9 9 9 9 9 9 9 9 9 9 9 9 9 9 9 9 9 9 9 9 9 9 9 9 9 9 9 9 9 9 9 9 9 9 9 9 9 9 9 9 9 9 9 9 9 9 9 9 9 9 9 9 9 9 9 9 9 9 9 9 9 9 9 9 9 9 9 9 9 9 9 9 9 9 9 9 9 9 9 9 9 9 9 9 9 9 9 9 9 9 9 9 
+9 9 9 9 9 9 9 9 9 9 9 9 9 9 9 9 9 9 9 9 9 9 9 9 9 9 9 9 9 9 9 9 9 9 9 9 9 9 9 9 9 9 9 9 9 9 9 9 9 9 9 9 9 9 9 9 9 9 9 9 9 9 9 9 9 9 9 9 9 9 9 9 9 9 9 9 9 9 9 9 9 9 9 9 9 9 9 9 9 9 9 9 9 9 9 9 9 9 9 9 9 9 9 9 9 9 9 9 9 9 9 9 9 9 9 9 9 9 9 9 9 9 9 9 9 9 9 9 9 9 9 9 9 9 9 9 9 9 9 9 9 9 9 9 9 9 9 9 9 9 9 9 9 9 9 9 9 9 9 9 
+9 9 9 9 9 9 9 9 9 9 9 9 9 9 9 9 9 9 9 9 9 9 9 9 9 9 9 9 9 9 9 9 9 9 9 9 9 9 9 9 9 9 9 9 9 9 9 9 9 9 9 9 9 9 9 9 9 9 9 9 9 9 9 9 9 9 9 9 9 9 9 9 9 9 9 9 9 9 9 9 9 9 9 9 9 9 9 9 9 9 9 9 9 9 9 9 9 9 9 9 9 9 9 9 9 9 9 9 9 9 9 9 9 9 9 9 9 9 9 9 9 9 9 9 9 9 9 9 9 9 9 9 9 9 9 9 9 9 9 9 9 9 9 9 9 9 9 9 9 9 9 9 9 9 9 9 9 9 9 9 
+9 9 9 9 9 9 9 9 9 9 9 9 9 9 9 9 9 9 9 9 9 9 9 9 9 9 9 9 9 9 9 9 9 9 9 9 9 9 9 9 9 9 9 9 9 9 9 9 9 9 9 9 9 9 9 9 9 9 9 9 9 9 9 9 9 9 9 9 9 9 9 9 9 9 9 9 9 9 9 9 9 9 9 9 9 9 9 9 9 9 9 9 9 9 9 9 9 9 9 9 9 9 9 9 9 9 9 9 9 9 9 9 9 9 9 9 9 9 9 9 9 9 9 9 9 9 9 9 9 9 9 9 9 9 9 9 9 9 9 9 9 9 9 9 9 9 9 9 9 9 9 9 9 9 9 9 9 9 9 9 
+9 9 9 9 9 9 9 9 9 9 9 9 9 9 9 9 9 9 9 9 9 9 9 9 9 9 9 9 9 9 9 9 9 9 9 9 9 9 9 9 9 9 9 9 9 9 9 9 9 9 9 9 9 9 9 9 9 9 9 9 9 9 9 9 9 9 9 9 9 9 9 9 9 9 9 9 9 9 9 9 9 9 9 9 9 9 9 9 9 9 9 9 9 9 9 9 9 9 9 9 9 9 9 9 9 9 9 9 9 9 9 9 9 9 9 9 9 9 9 9 9 9 9 9 9 9 9 9 9 9 9 9 9 9 9 9 9 9 9 9 9 9 9 9 9 9 9 9 9 9 9 9 9 9 9 9 9 9 9 9 
+9 9 9 9 9 9 9 9 9 9 9 9 9 9 9 9 9 9 9 9 9 9 9 9 9 9 9 9 9 9 9 9 9 9 9 9 9 9 9 9 9 9 9 9 9 9 9 9 9 9 9 9 9 9 9 9 9 9 9 9 9 9 9 9 9 9 9 9 9 9 9 9 9 9 9 9 9 9 9 9 9 9 9 9 9 9 9 9 9 9 9 9 9 9 9 9 9 9 9 9 9 9 9 9 9 9 9 9 9 9 9 9 9 9 9 9 9 9 9 9 9 9 9 9 9 9 9 9 9 9 9 9 9 9 9 9 9 9 9 9 9 9 9 9 9 9 9 9 9 9 9 9 9 9 9 9 9 9 9 9 
+9 9 9 9 9 9 9 9 9 9 9 9 9 9 9 9 9 9 9 9 9 9 9 9 9 9 9 9 9 9 9 9 9 9 9 9 9 9 9 9 9 9 9 9 9 9 9 9 9 9 9 9 9 9 9 9 9 9 9 9 9 9 9 9 9 9 9 9 9 9 9 9 9 9 9 9 9 9 9 9 9 9 9 9 9 9 9 9 9 9 9 9 9 9 9 9 9 9 9 9 9 9 9 9 9 9 9 9 9 9 9 9 9 9 9 9 9 9 9 9 9 9 9 9 9 9 9 9 9 9 9 9 9 9 9 9 9 9 9 9 9 9 9 9 9 9 9 9 9 9 9 9 9 9 9 9 9 9 9 9 
+`)
     game.splash("LEVEL:4")
     info.changeScoreBy(1)
     gap = Math.randomRange(0, 3)
@@ -718,7 +840,6 @@ function level_3 () {
 }
 function level () {
     game.splash("LEVEL:1")
-    scene.cameraShake(2, 5000)
     info.changeScoreBy(1)
     gap = Math.randomRange(0, 3)
     if (gap == 0) {
@@ -1294,6 +1415,7 @@ f f f f f f f f f f f f f f f f f f f f f f f f f f f f f f f f f f f f f f f f 
 f f f f f f f f f f f f f f f f f f f f f f f f f f f f f f f f f f f f f f f f f f f f f f f f f f f f f f f f f f f f f f f f f f f f f f f f f f f f f f f f f f f f f f f f f f f f f f f f f f f f f f f f f f f f f f f f f f f f f f f f f f f f f f f f f f f f f f f f f f f f f f f f f f f f f f f f f f f f f f f f 
 f f f f f f f f f f f f f f f f f f f f f f f f f f f f f f f f f f f f f f f f f f f f f f f f f f f f f f f f f f f f f f f f f f f f f f f f f f f f f f f f f f f f f f f f f f f f f f f f f f f f f f f f f f f f f f f f f f f f f f f f f f f f f f f f f f f f f f f f f f f f f f f f f f f f f f f f f f f f f f f f 
 `)
+    scene.cameraShake(2, 5000)
     game.splash("LEVEL:2")
     info.changeScoreBy(1)
     gap = Math.randomRange(0, 3)
